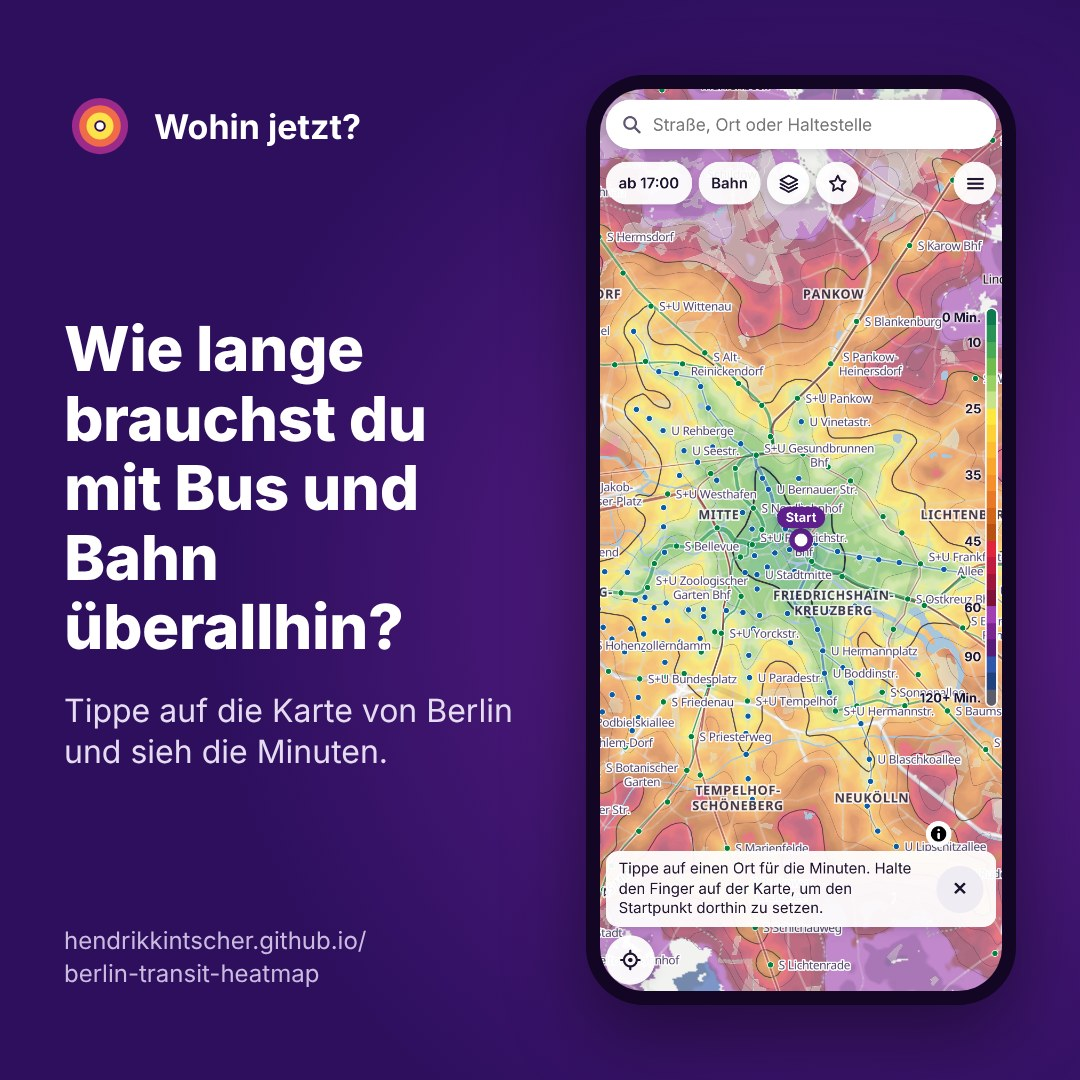
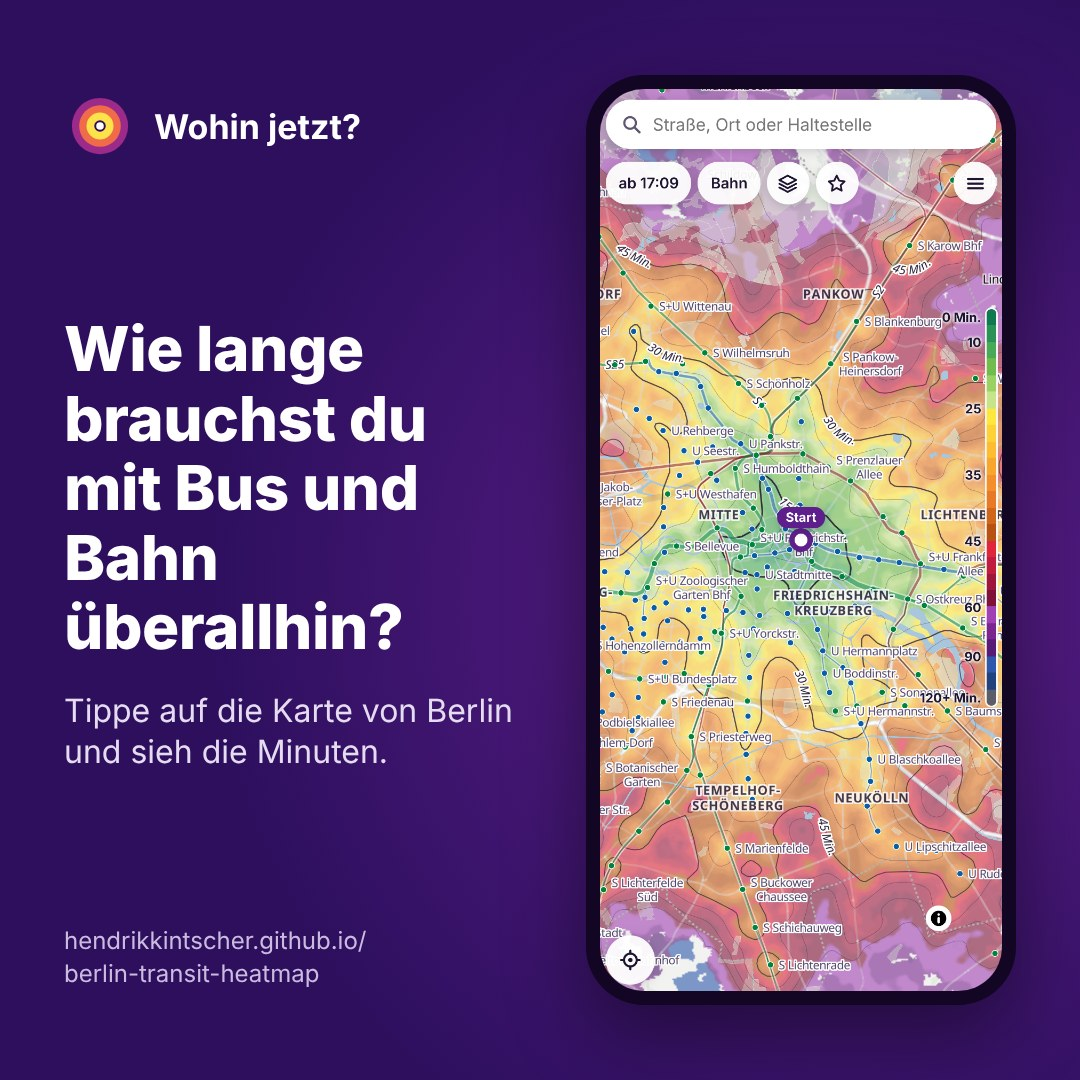
S023: Sharepic per use case (0.16.1)
One sharepic per start-card question: reach (Bis 30 Min.), meet
(Treffpunkt), living (Wohnlage) and places (Wohin jetzt?). screens.mjs
gets reach and living screens and --notip; build.mjs takes the sharepic
shots from --pics.

Claude-Session: https://claude.ai/code/session_012fZviavb9AsogN9r7weAsT

diff --git a/CHANGELOG.md b/CHANGELOG.md
@@ -7,6 +7,10 @@ Each entry names the step (S0NN), the PR and the timings before/after.
 
 ## [Unreleased]
 
+## [0.16.1] — 2026-11-05
+
+- S023: Sharepic per use case. One picture per question of the start card, each with the screen that answers it: `showcase/sharepics/de-reach.jpg` "Was erreiche ich in 30 Min.?" (the map with Bis 30 Min.), `de-meet.jpg` "Wo treffen wir uns?" (Treffpunkt), `de-living.jpg` "Wo soll ich wohnen?" (Wohnlage with three favourite places), and `de-places.jpg` "Wohin jetzt?" (the places layer at Wannsee). The sharepics' screenshots are taken without the bottom tip (`scripts/layout/screens.mjs --notip`, also used for `de-app.jpg` now); screens.mjs has two new screens, `reach` and `living` (with saved favourites), and both are in `showcase/screens/`. The app itself is unchanged. Timings at 360×740, medians of 7, main → branch (same app code, so noise): first map 1114 → 1230 ms, tap to trip 276 → 295 ms; 4× CPU 1690 → 1332 ms and 133 → 187 ms.
+
 ## [0.16.0] — 2026-11-05
 
 - S022: New screenshots and sharepics. `showcase/screens/` holds the eleven main screens of the current app at 390×844 in German, with the real base map: first screen, map, trip, drawer, Zeit, search, menu, Treffpunkt and the places layer (city, zoomed in, from Wannsee); as WebP, about 150 KB each. `showcase/sharepics/de-app.jpg` is the new German sharepic (1080×1080: "Wie lange brauchst du mit Bus und Bahn überallhin?" beside a phone with the map). Both come from `scripts/showcase/build.mjs`, which takes the screenshots of `scripts/layout/screens.mjs` (English ones with `--langs en`). The app itself is unchanged; Prettier now skips `packages/routing/.data/` (the screenshots' data cache, already ignored by git). Timings at 360×740, medians of 7, main → branch (same app code, so noise): first map 998 → 903 ms, tap to trip 365 → 256 ms; 4× CPU 1289 → 1320 ms and 129 → 149 ms.

diff --git a/docs/steps/archive/023-sharepic-per-use-case.md b/docs/steps/archive/023-sharepic-per-use-case.md
@@ -6,7 +6,7 @@ kind: feature
 priority: P3
 size: S
 needs: S022
-status: open
+status: done
 ---
 <!-- Change tags with: scripts/steps.sh tag NNN size=M priority=P1 needs=S002 (keeps ROADMAP.md in sync).
      kind: feature|fix|refactor|chore|research · priority: P1|P2|P3 · size: XS|S|M|L · needs: S002,S003 or -
@@ -16,7 +16,7 @@ status: open
 One sharepic per question ("one picture, one question") instead of one feature list.
 
 ## Acceptance criteria
-- [ ] One sharepic per use case
+- [x] One sharepic per use case
 
 ## Notes
 - Planned as 0.16.1 (design list D6).

diff --git a/ROADMAP.md b/ROADMAP.md
@@ -42,5 +42,4 @@ Becomes a step only when Hendrik says so. Details in [docs/specs/later.md](docs/
 
 ### Later · G. Showcase and release (0.16, 1.0)
 
-- S023 · build · feature · P3 · S · needs S022 · Sharepic per use case
 - S024 · build · chore · P1 · S · needs S022, S035 · Release 1.0.0
